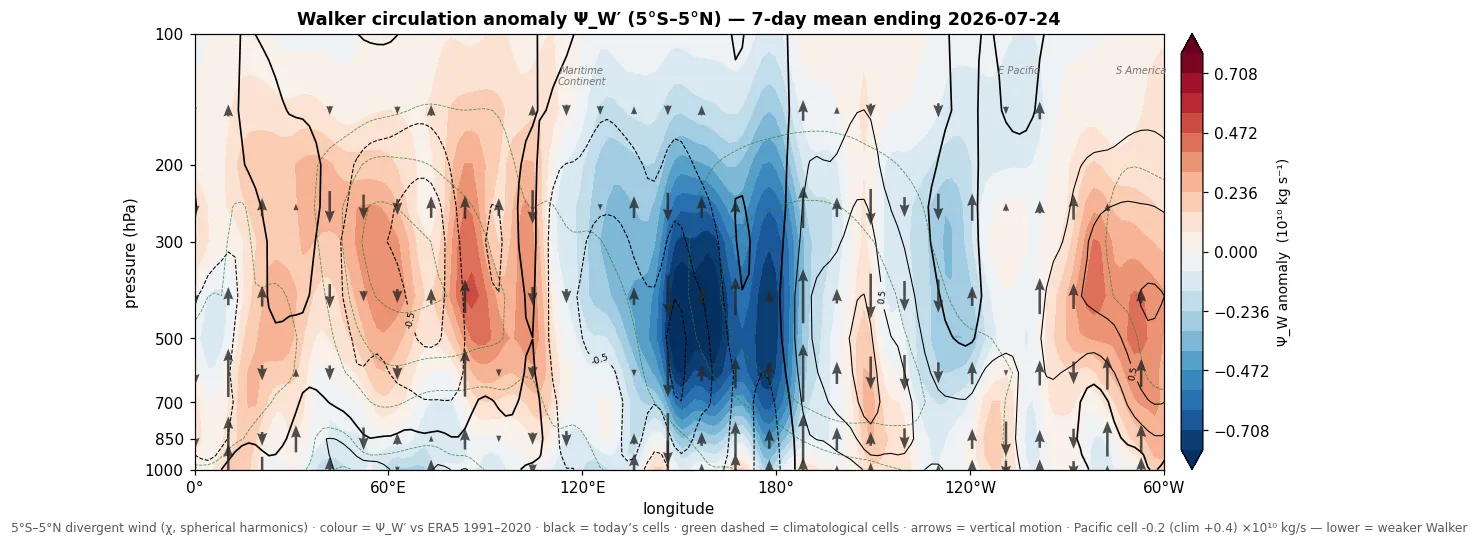
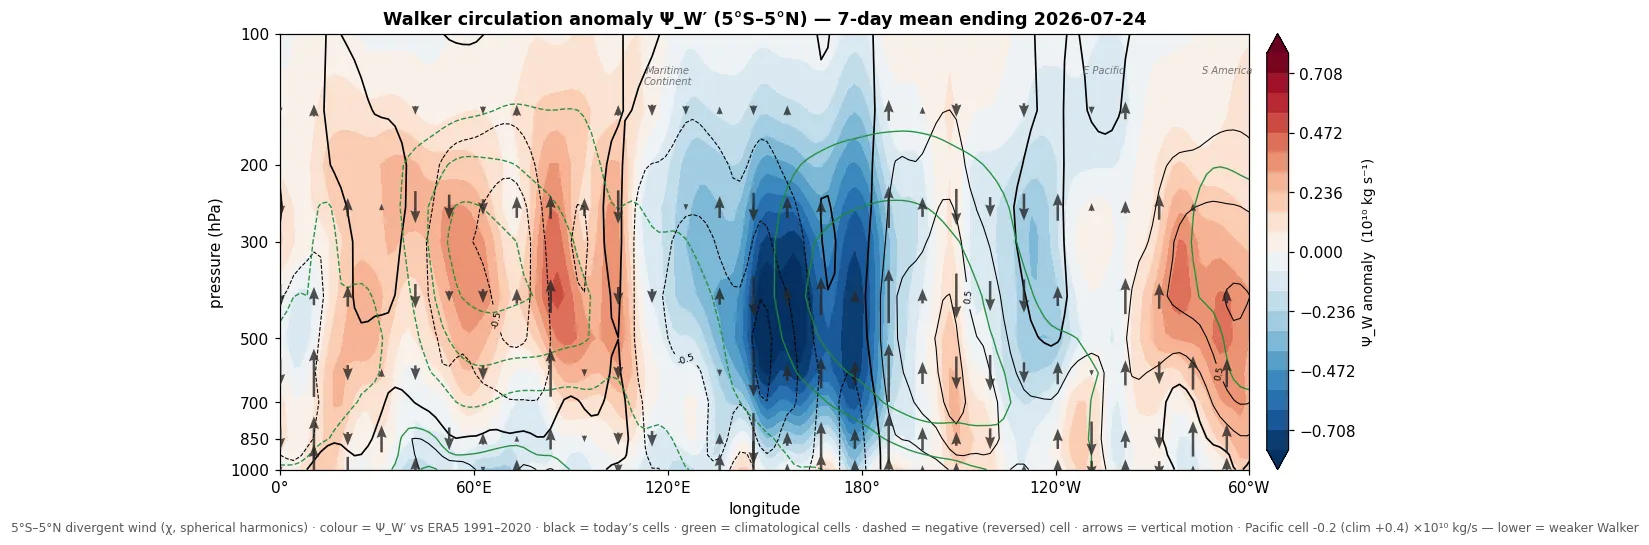
Walker plot: climo contours brighter + sign-split (solid positive / dashed negative), caption updated

diff --git a/scripts/mjo/src/walker.py b/scripts/mjo/src/walker.py
@@ -137,8 +137,9 @@ def plot_psi(psi, p_hpa, lon, out: Path, title: str, vlim, psi_abs, pidx, pclim,
     levs = np.linspace(-vlim, vlim, 21)
     cf = ax.contourf(lon, p_hpa, psi, levels=levs, cmap="RdBu_r", extend="both")
     # absolute-cell contours at WALKER magnitudes (the cells run ±1-3 ×10¹⁰,
-    # not the Hadley ±20): black = TODAY's cells, green dashed = the
-    # climatological cells, so displacement/collapse reads directly.
+    # not the Hadley ±20): black = TODAY's cells, green = the climatological
+    # cells (both: solid positive / dashed negative), so displacement/collapse
+    # reads directly.
     # 0.25 spacing (2026-07-25, was 0.5 capped at ±3): dense enough that the
     # forecast and climo cell shapes read against each other.
     _steps = np.arange(0.25, 4.01, 0.25)
@@ -148,8 +149,12 @@ def plot_psi(psi, p_hpa, lon, out: Path, title: str, vlim, psi_abs, pidx, pclim,
               fontsize=6, inline=True)
     ax.contour(lon, p_hpa, psi_abs, levels=[0], colors="k", linewidths=1.1)
     if psi_clim is not None:
-        ax.contour(lon, p_hpa, psi_clim, levels=clev, colors="#2e7d32",
-                   linewidths=0.55, linestyles="dashed", alpha=0.8)
+        # Same sign convention as the black forecast lines (solid = positive,
+        # dashed = negative) so colour alone separates forecast vs climo.
+        ax.contour(lon, p_hpa, psi_clim, levels=clev[clev < 0], colors="#1e8c3a",
+                   linewidths=0.9, linestyles="dashed", alpha=0.95)
+        ax.contour(lon, p_hpa, psi_clim, levels=clev[clev > 0], colors="#1e8c3a",
+                   linewidths=0.9, linestyles="solid", alpha=0.95)
     # vertical-motion arrows: band continuity ⇒ [ω] ∝ −∂Ψ_W/∂λ, so ASCENT (up
     # arrow, +V in quiver) ∝ +∂Ψ_W/∂λ; normalized like the MMSF plot, weak
     # columns hidden.
@@ -177,7 +182,7 @@ def plot_psi(psi, p_hpa, lon, out: Path, title: str, vlim, psi_abs, pidx, pclim,
     cb.set_label("Ψ_W anomaly  (10¹⁰ kg s⁻¹)", fontsize=9)
     fig.text(0.5, 0.005,
              f"5°S–5°N divergent wind (χ, spherical harmonics) · colour = Ψ_W′ vs ERA5 1991–2020 · "
-             f"black = today\u2019s cells · green dashed = climatological cells · arrows = vertical motion · "
+             f"black = today\u2019s cells · green = climatological cells · dashed = negative (reversed) cell · arrows = vertical motion · "
              f"Pacific cell {pidx:+.1f} (clim {pclim:+.1f}) ×10¹⁰ kg/s — lower = weaker Walker",
              ha="center", fontsize=8, color="0.35")
     fig.tight_layout()
@@ -208,7 +213,7 @@ def _stage_walker(jl, frame_id, out, psi_anom, psi_abs, psi_clim, p_hpa, lon,
              meta=dict(
                  out_png="", figsize=[11.5, 4.9], title=title,
                  footer=("5°S–5°N divergent wind (χ, spherical harmonics) · colour = Ψ_W′ vs ERA5 1991–2020 · "
-                         "black = today’s cells · green dashed = climatological cells · arrows = vertical motion · "
+                         "black = today’s cells · green = climatological cells · dashed = negative (reversed) cell · arrows = vertical motion · "
                          f"Pacific cell {pidx:+.1f} (clim {pclim:+.1f}) ×10¹⁰ kg/s — lower = weaker Walker"),
                  xlabel="longitude", ylabel="pressure (hPa)",
                  ylog=True, yreversed=True,
@@ -225,7 +230,10 @@ def _stage_walker(jl, frame_id, out, psi_anom, psi_abs, psi_clim, p_hpa, lon,
                            dict(npz="zabs", levels=[c for c in clev if c > 0],
                                 color="#000000", width=0.7, dash=False),
                            dict(npz="zabs", levels=[0.0], color="#000000", width=1.1, dash=False),
-                           dict(npz="zclim", levels=clev, color="#2e7d32", width=0.55, dash=True)],
+                           dict(npz="zclim", levels=[c for c in clev if c < 0],
+                                color="#1e8c3a", width=0.9, dash=True),
+                           dict(npz="zclim", levels=[c for c in clev if c > 0],
+                                color="#1e8c3a", width=0.9, dash=False)],
                  arrows=dict(x="ax", y="ay", u="au", v="av", scale=1.0),
                  texts=[dict(x=120, y=118, s="Maritime Continent", size=9, color="#737373"),
                         dict(x=255, y=118, s="E Pacific", size=9, color="#737373"),
